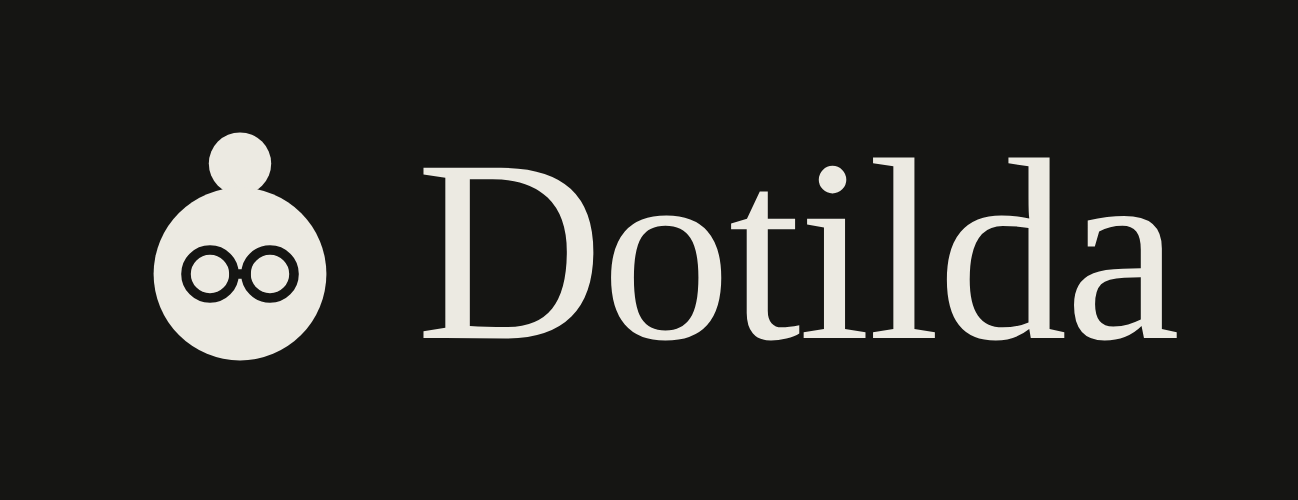
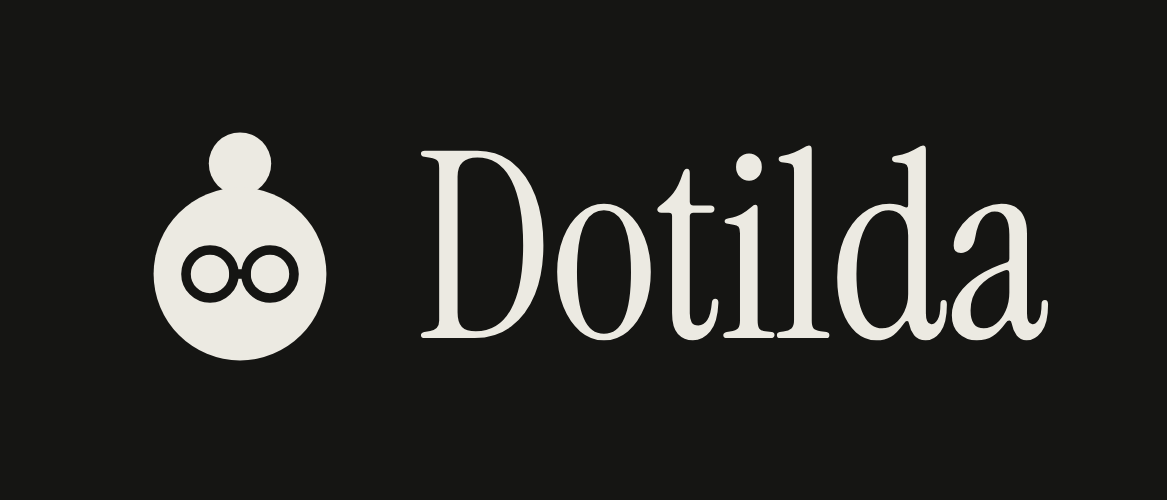
Wallpapers say Dotilda.com, its dot the only warm one; real Instrument Serif
Moon: Dotilda glances up at her address. Year: the address under her; the
year's last day is ink again so the ".com" dot is the only warm one. The
brand script now embeds Instrument Serif (a setContent page cannot load a
file:// font), which also fixes the lockups, drawn until now in a fallback
serif.

Claude-Session: https://claude.ai/code/session_01G1EGSok3Ek98zi1XzLYMwD

diff --git a/README.md b/README.md
@@ -158,7 +158,7 @@ as the only image.
 
 `/brand` gathers the name and voice, Dotilda's four poses, the lockup and app icon, the colours
 (tap to copy), the type, the dot shapes, the real screens and share images, two wallpapers
-(Moon and Year; desktop 3840×2160 and phone 1290×2796, light and dark), and usage rules.
+with Dotilda.com, its dot the only warm one (Moon and Year; desktop 3840×2160 and phone 1290×2796, light and dark), and usage rules.
 It exists in English only: no `hreflang`, no FAQ data. Its files are drawn by `npm run brand`
 from the app's geometry (`ui/DotildaMark.kt`, `ic_launcher_foreground.xml`); the glasses and the
 smile are cut out with a mask, so every SVG works on any background. When the app's drawing
